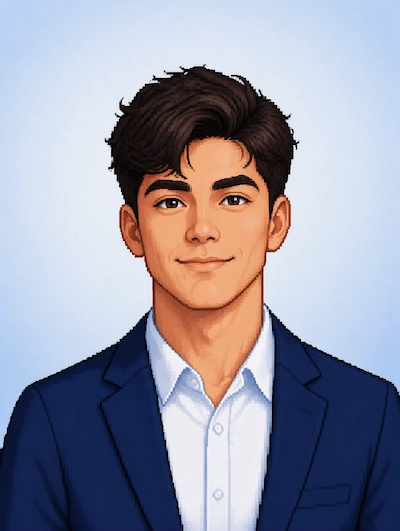
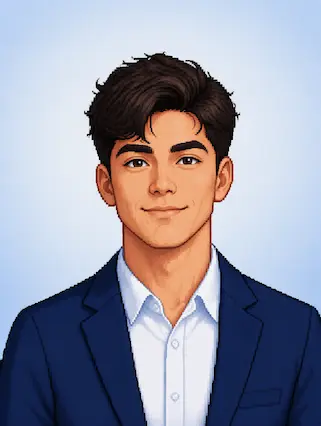
mejorando rendimiento

diff --git a/index.html b/index.html
@@ -13,36 +13,6 @@
 
     <title>José Malavé | Desarrollador .NET</title>
     <link rel="icon" type="image/svg+xml" href="/assets/img/favicon.svg" />
-    <!-- =========================================================
-         FONTS
-    ========================================================== -->
-
-    <link rel="preconnect" href="https://fonts.googleapis.com" />
-
-    <link rel="preconnect" href="https://fonts.gstatic.com" crossorigin />
-
-    <link
-      href="https://fonts.googleapis.com/css2?family=Inter:wght@400;500;600;700&family=Space+Grotesk:wght@500;600;700&display=swap"
-      rel="stylesheet"
-    />
-
-    <!-- =========================================================
-         BOOTSTRAP
-    ========================================================== -->
-
-    <link
-      href="https://cdn.jsdelivr.net/npm/bootstrap@5.3.3/dist/css/bootstrap.min.css"
-      rel="stylesheet"
-    />
-
-    <!-- =========================================================
-         FONT AWESOME
-    ========================================================== -->
-
-    <!-- =========================================================
-         CUSTOM CSS
-    ========================================================== -->
-
     <link rel="stylesheet" href="./css/main.css" />
   </head>
 
@@ -185,7 +155,7 @@
                     src="/assets/img/profile/profile.webp"
                     class="profile-image"
                     alt="José Malavé"
-                    width="400"
+                    width="301"
                     height="400"
                     fetchpriority="high"
                     decoding="async"
@@ -221,7 +191,6 @@
                 alt=""
                 width="16"
                 height="16"
-                decoding="async"
               />
               WhatsApp
             </a>
@@ -237,7 +206,6 @@
                 alt=""
                 width="16"
                 height="16"
-                decoding="async"
               />
               GitHub
             </a>
@@ -251,7 +219,6 @@
                 alt=""
                 width="16"
                 height="16"
-                decoding="async"
               />
               Email
             </a>
@@ -433,7 +400,6 @@
                         width="24"
                         height="24"
                         loading="lazy"
-                        decoding="async"
                       />
                       <span>HTML</span>
                     </button>
@@ -452,7 +418,6 @@
                         width="24"
                         height="24"
                         loading="lazy"
-                        decoding="async"
                       />
                       <span>CSS</span>
                     </button>
@@ -471,7 +436,6 @@
                         width="24"
                         height="24"
                         loading="lazy"
-                        decoding="async"
                       />
                       <span>JavaScript</span>
                     </button>
@@ -490,7 +454,6 @@
                         width="24"
                         height="24"
                         loading="lazy"
-                        decoding="async"
                       />
                       <span>TypeScript</span>
                     </button>
@@ -509,7 +472,6 @@
                         width="24"
                         height="24"
                         loading="lazy"
-                        decoding="async"
                       />
                       <span>Angular</span>
                     </button>
@@ -528,7 +490,6 @@
                         width="24"
                         height="24"
                         loading="lazy"
-                        decoding="async"
                       />
                       <span>Bootstrap</span>
                     </button>
@@ -600,7 +561,6 @@
                         width="24"
                         height="24"
                         loading="lazy"
-                        decoding="async"
                       />
                       <span>C#</span>
                     </button>
@@ -619,7 +579,6 @@
                         width="24"
                         height="24"
                         loading="lazy"
-                        decoding="async"
                       />
                       <span>.NET</span>
                     </button>
@@ -638,7 +597,6 @@
                         width="24"
                         height="24"
                         loading="lazy"
-                        decoding="async"
                       />
                       <span>ASP.NET Core</span>
                     </button>
@@ -724,7 +682,6 @@
                         width="24"
                         height="24"
                         loading="lazy"
-                        decoding="async"
                       />
                       <span>SQL Server</span>
                     </button>
@@ -754,7 +711,6 @@
                         width="24"
                         height="24"
                         loading="lazy"
-                        decoding="async"
                       />
                       <span>Entity Framework Core</span>
                     </button>
@@ -953,7 +909,6 @@
                         width="24"
                         height="24"
                         loading="lazy"
-                        decoding="async"
                       />
                       <span>Git</span>
                     </button>
@@ -983,7 +938,6 @@
                         width="24"
                         height="24"
                         loading="lazy"
-                        decoding="async"
                       />
                       <span>Postman</span>
                     </button>
@@ -1002,7 +956,6 @@
                         width="24"
                         height="24"
                         loading="lazy"
-                        decoding="async"
                       />
                       <span>Visual Studio</span>
                     </button>
@@ -1021,7 +974,6 @@
                         width="24"
                         height="24"
                         loading="lazy"
-                        decoding="async"
                       />
                       <span>VS Code</span>
                     </button>
@@ -1259,13 +1211,13 @@
                   aria-label="Ver detalles del proyecto SGTS"
                 >
                   <img
-                    src="/assets/img/projects/sgts/screenshots/tickets.png"
+                    src="/assets/img/projects/sgts/screenshots/tickets.webp"
                     class="project-image"
                     alt="Vista del sistema de gestión de tickets SGTS"
                     width="800"
                     height="600"
                     loading="lazy"
-                    decoding="async"
+                    fetchpriority="high"
                   />
                 </a>
               </div>
@@ -1548,7 +1500,6 @@
                     alt=""
                     width="18"
                     height="18"
-                    decoding="async"
                   />
                 </span>
 
@@ -1580,7 +1531,6 @@
                     alt=""
                     width="18"
                     height="18"
-                    decoding="async"
                   />
                 </span>
 
@@ -1608,7 +1558,6 @@
                     alt=""
                     width="18"
                     height="18"
-                    decoding="async"
                   />
                 </span>
 
@@ -2434,10 +2383,6 @@
          SCRIPTS
     ======================================================== -->
 
-    <script src="https://unpkg.com/lenis@1.3.11/dist/lenis.min.js"></script>
-    <script type="module" src="./js/lenis.js" defer></script>
-
-    <script src="https://cdn.jsdelivr.net/npm/bootstrap@5.3.8/dist/js/bootstrap.bundle.min.js"></script>
     <script type="module" src="./js/main.js" defer></script>
   </body>
 </html>

diff --git a/css/main.css b/css/main.css
@@ -1,3 +1,7 @@
+@import "@fontsource/inter/400.css";
+@import "@fontsource/inter/600.css";
+
+@import "@fontsource/space-grotesk/700.css";
 @import "bootstrap/dist/css/bootstrap.min.css";
 
 @import url("./base/variables.css");
@@ -19,7 +23,6 @@
 @import url("./sections/footer.css");
 
 @import url("./utilities/animations.css");
-@import url("./utilities/accessibility.css");
 @import url("./utilities/texture.css");
 @import url("./utilities/icon.css");
 

diff --git a/js/main.js b/js/main.js
@@ -10,6 +10,7 @@ import { initContactForm } from "./contact.js";
 document.addEventListener("DOMContentLoaded", () => {
   initNavbar();
   initScrollReveal();
+  initSmoothNavigation();
   initEducationReveal();
   initTechnologySelector();
   initContactForm();
